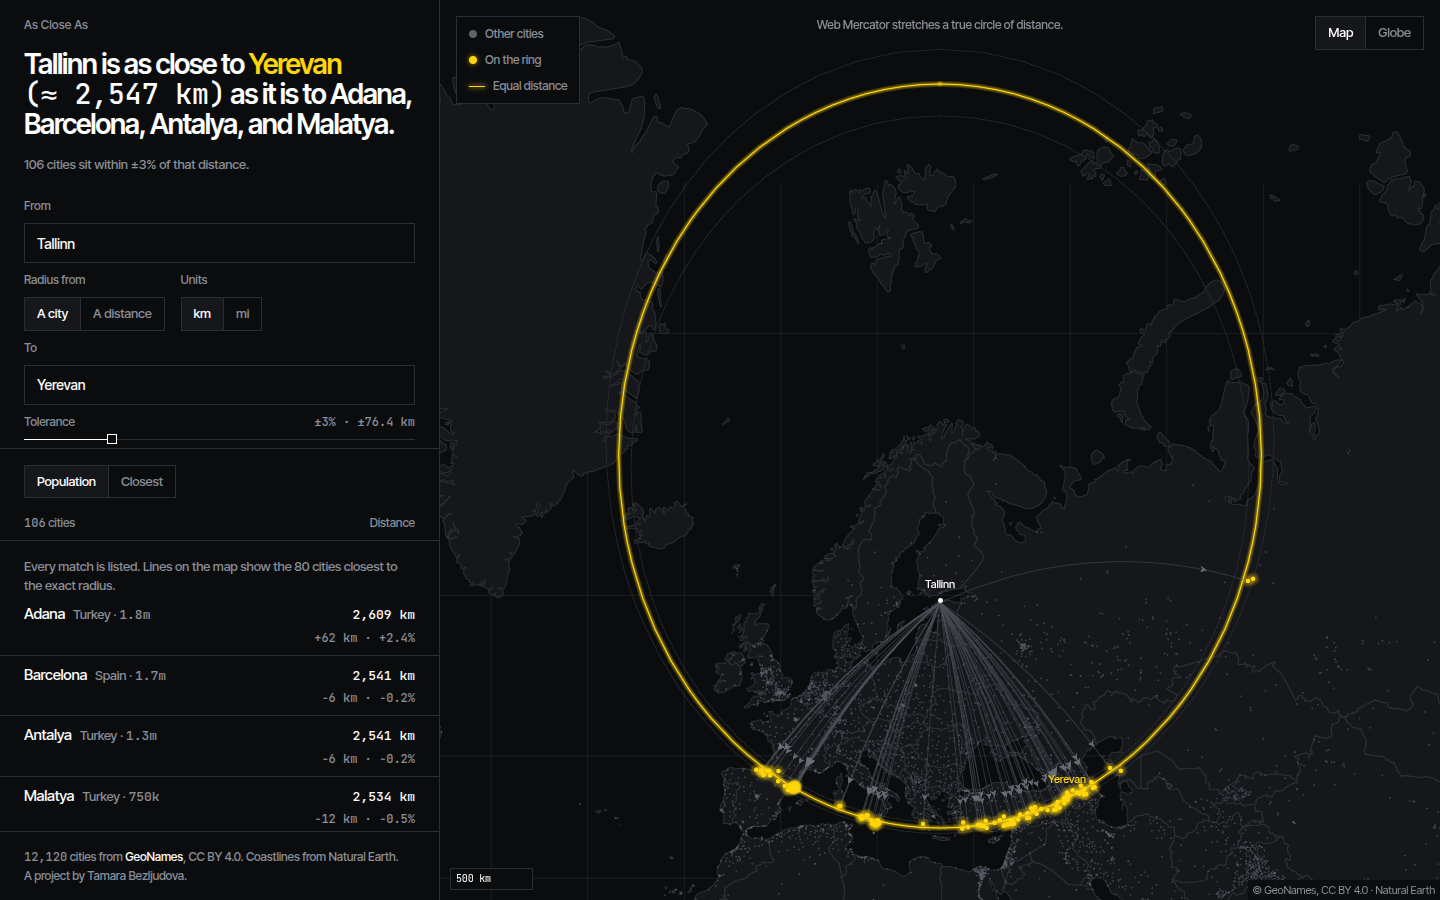
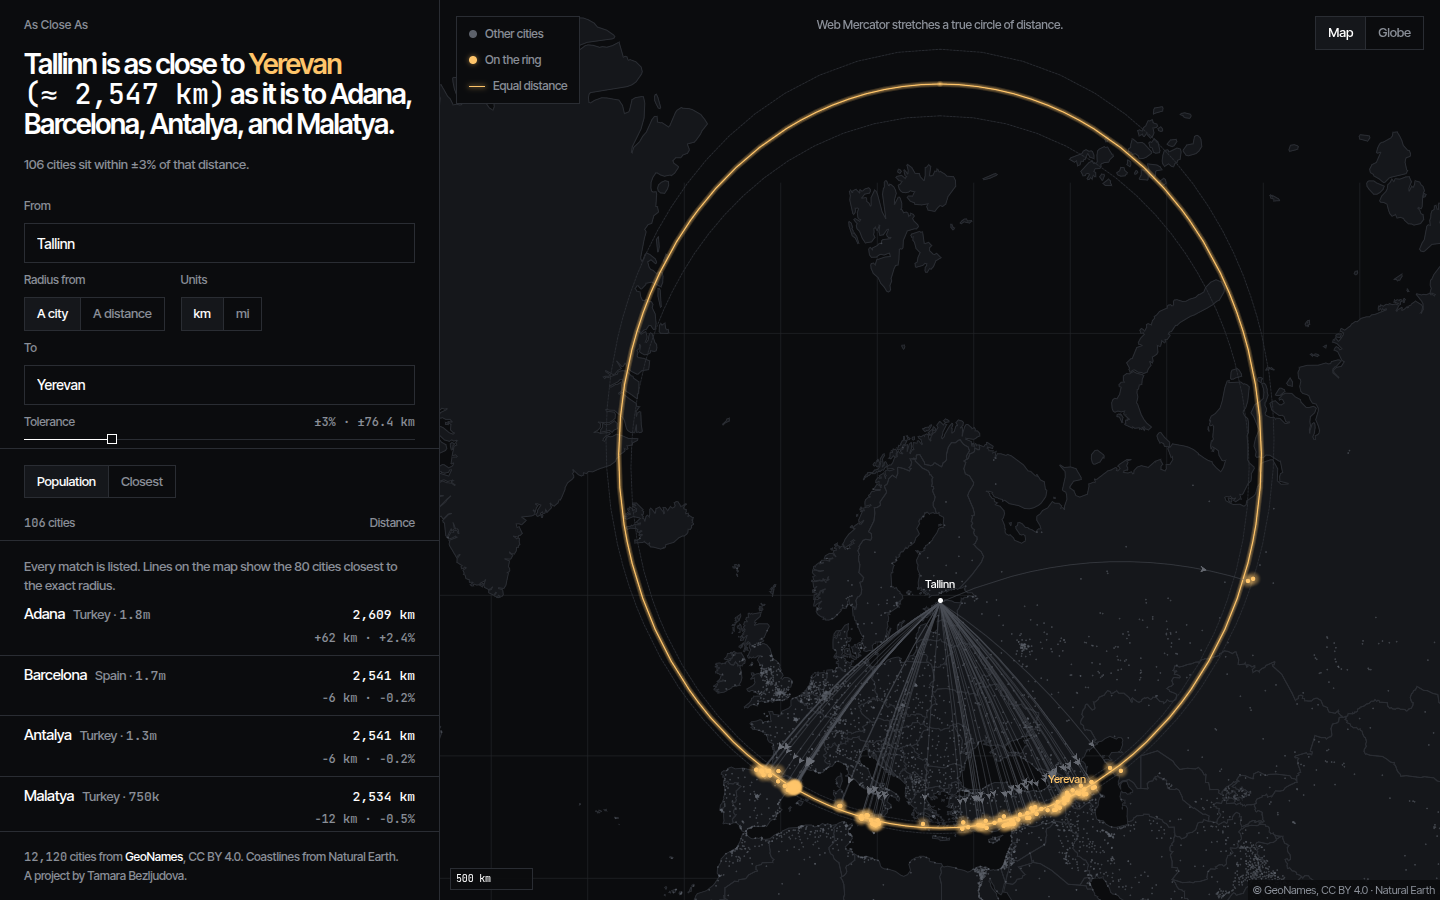
Soften the highlight back to the original gold
Replace the bright yellow with the first version's warm gold, #FFC56A, and keep the glow.

diff --git a/src/index.css b/src/index.css
@@ -11,10 +11,10 @@
   --color-line: #2a2d33;
   --color-field: #0b0c0e;
   --color-land: #15171b;
-  --color-gold: #ffd60a;
-  --color-gold-2: #ffd60a;
-  --color-ember: #ffd60a;
-  --color-accent: #ffd60a;
+  --color-gold: #ffc56a;
+  --color-gold-2: #ffe3b8;
+  --color-ember: #ffc56a;
+  --color-accent: #ffc56a;
 }
 
 html,
@@ -582,16 +582,16 @@ body {
 }
 
 html[data-glow="on"] .rise-orb {
-  box-shadow: 0 0 6px 1px rgba(255, 214, 10, 0.5);
+  box-shadow: 0 0 6px 1px rgba(255, 197, 106, 0.42);
 }
 
 html[data-glow="on"] .rise-stem {
-  box-shadow: 0 0 4px 0 rgba(255, 214, 10, 0.45);
+  box-shadow: 0 0 4px 0 rgba(255, 197, 106, 0.38);
 }
 
 html[data-glow="on"] .swatch.glow,
 html[data-glow="on"] .swatch.ring {
-  box-shadow: 0 0 5px 1px rgba(255, 214, 10, 0.45);
+  box-shadow: 0 0 5px 1px rgba(255, 197, 106, 0.4);
 }
 
 .maplibregl-ctrl-attrib {

diff --git a/src/map/glow.ts b/src/map/glow.ts
@@ -4,7 +4,7 @@
  */
 export const MAP_GLOW = true;
 
-export const ACCENT = "#FFD60A";
+export const ACCENT = "#FFC56A";
 
 export const cityHalo = {
   blur: MAP_GLOW ? 0.7 : 0,
